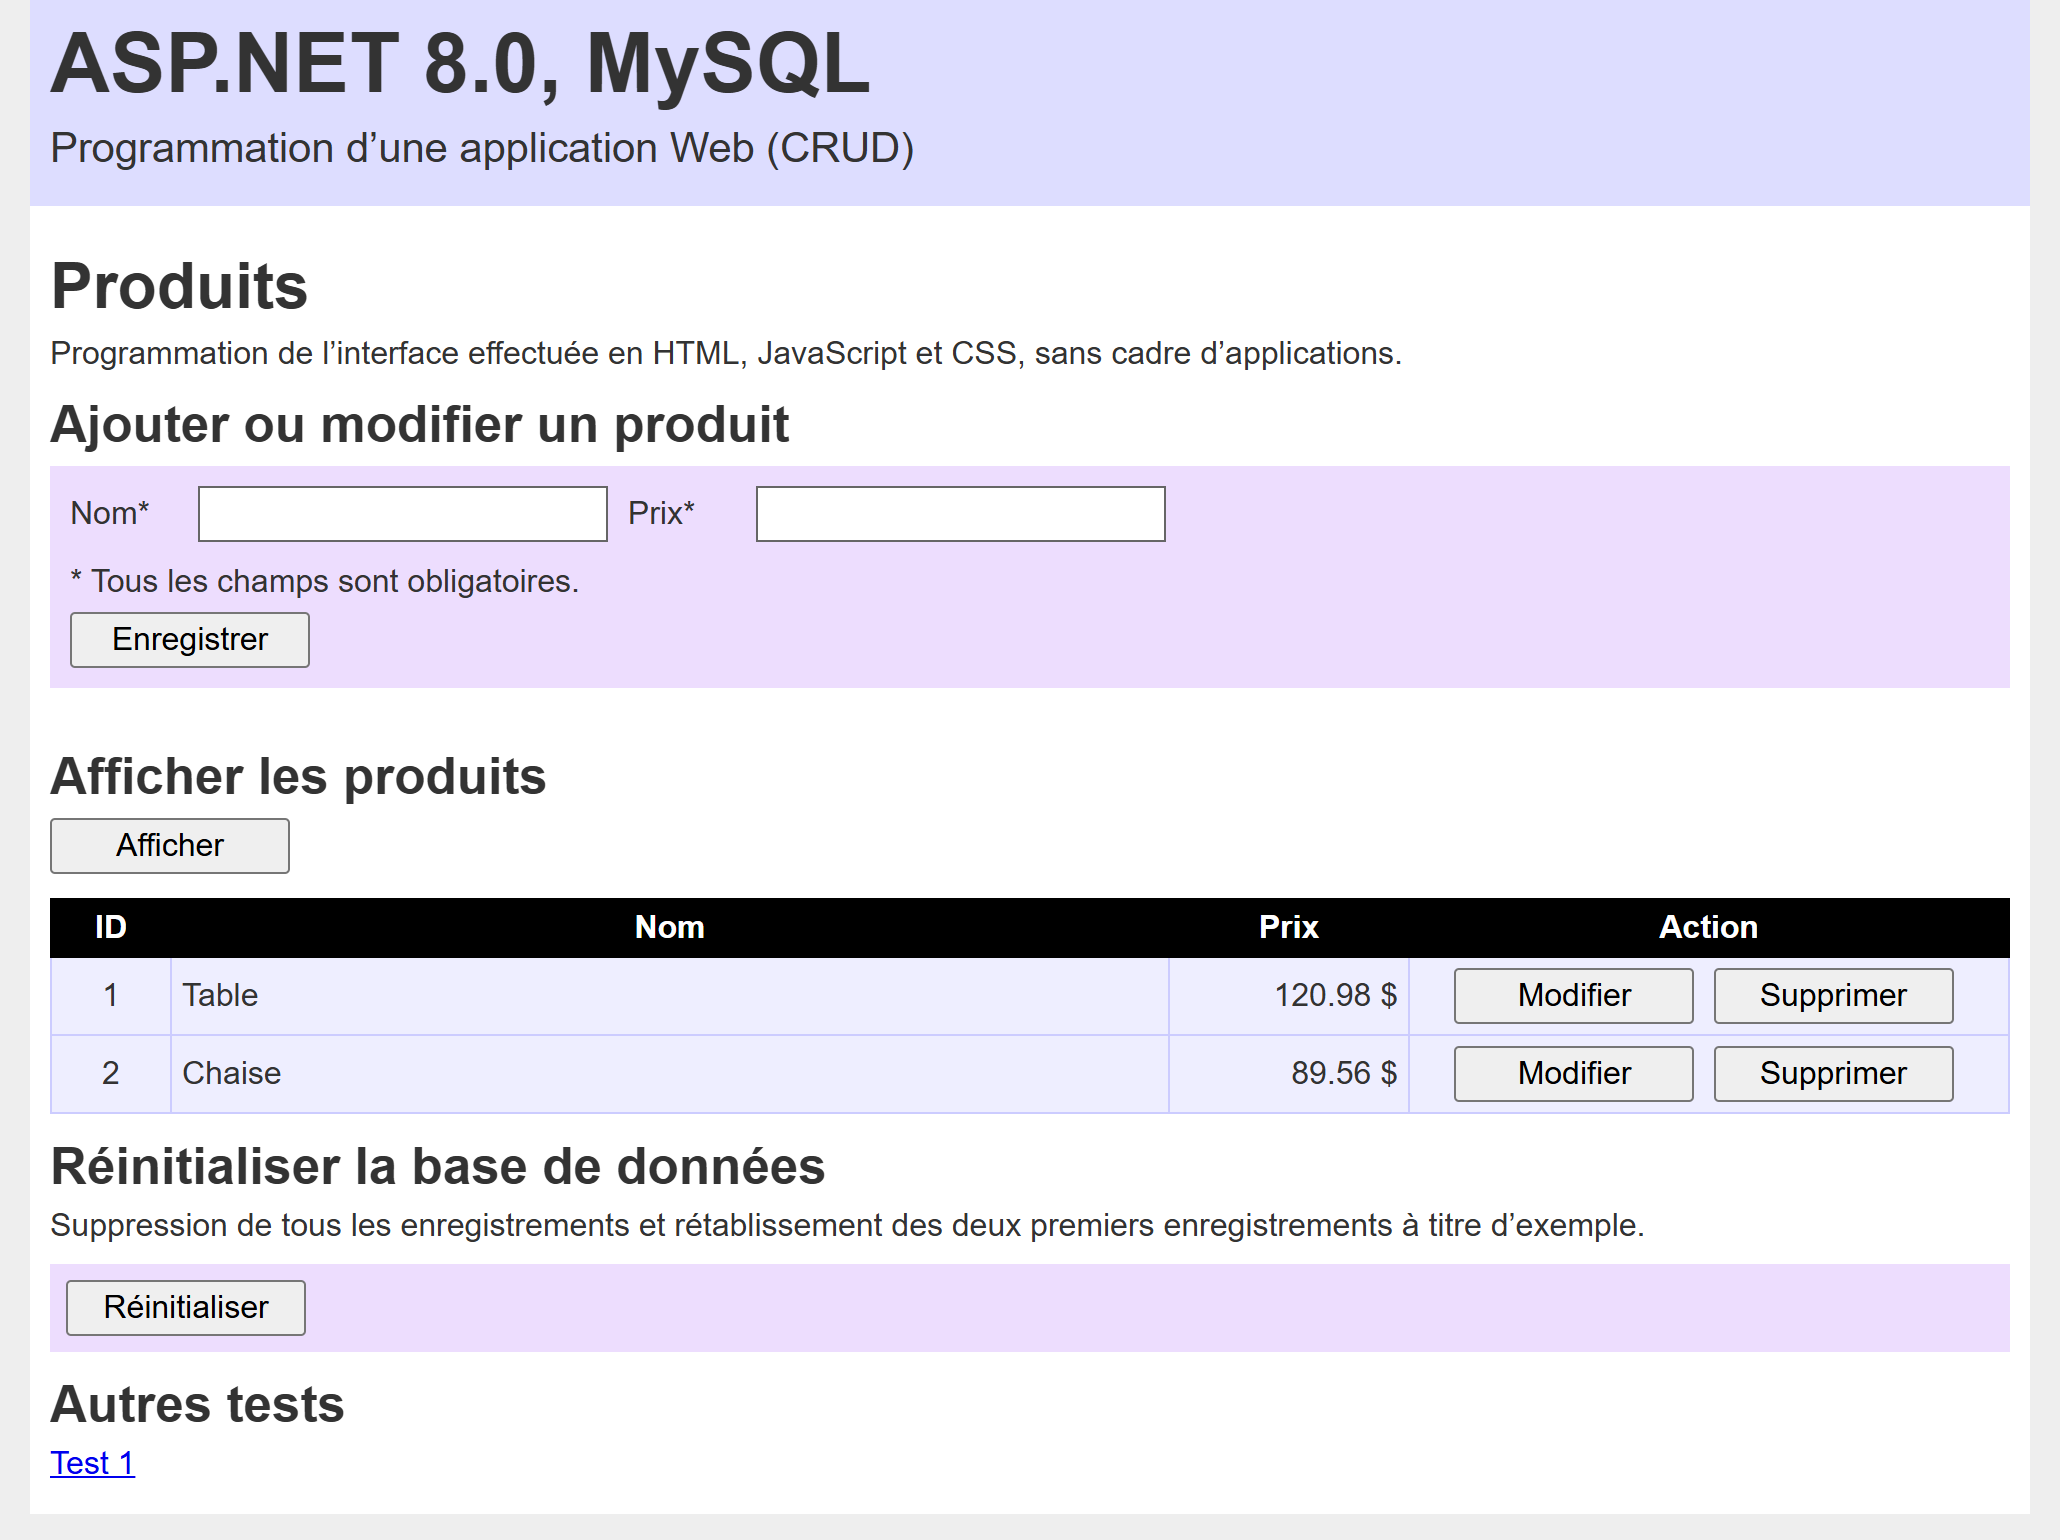
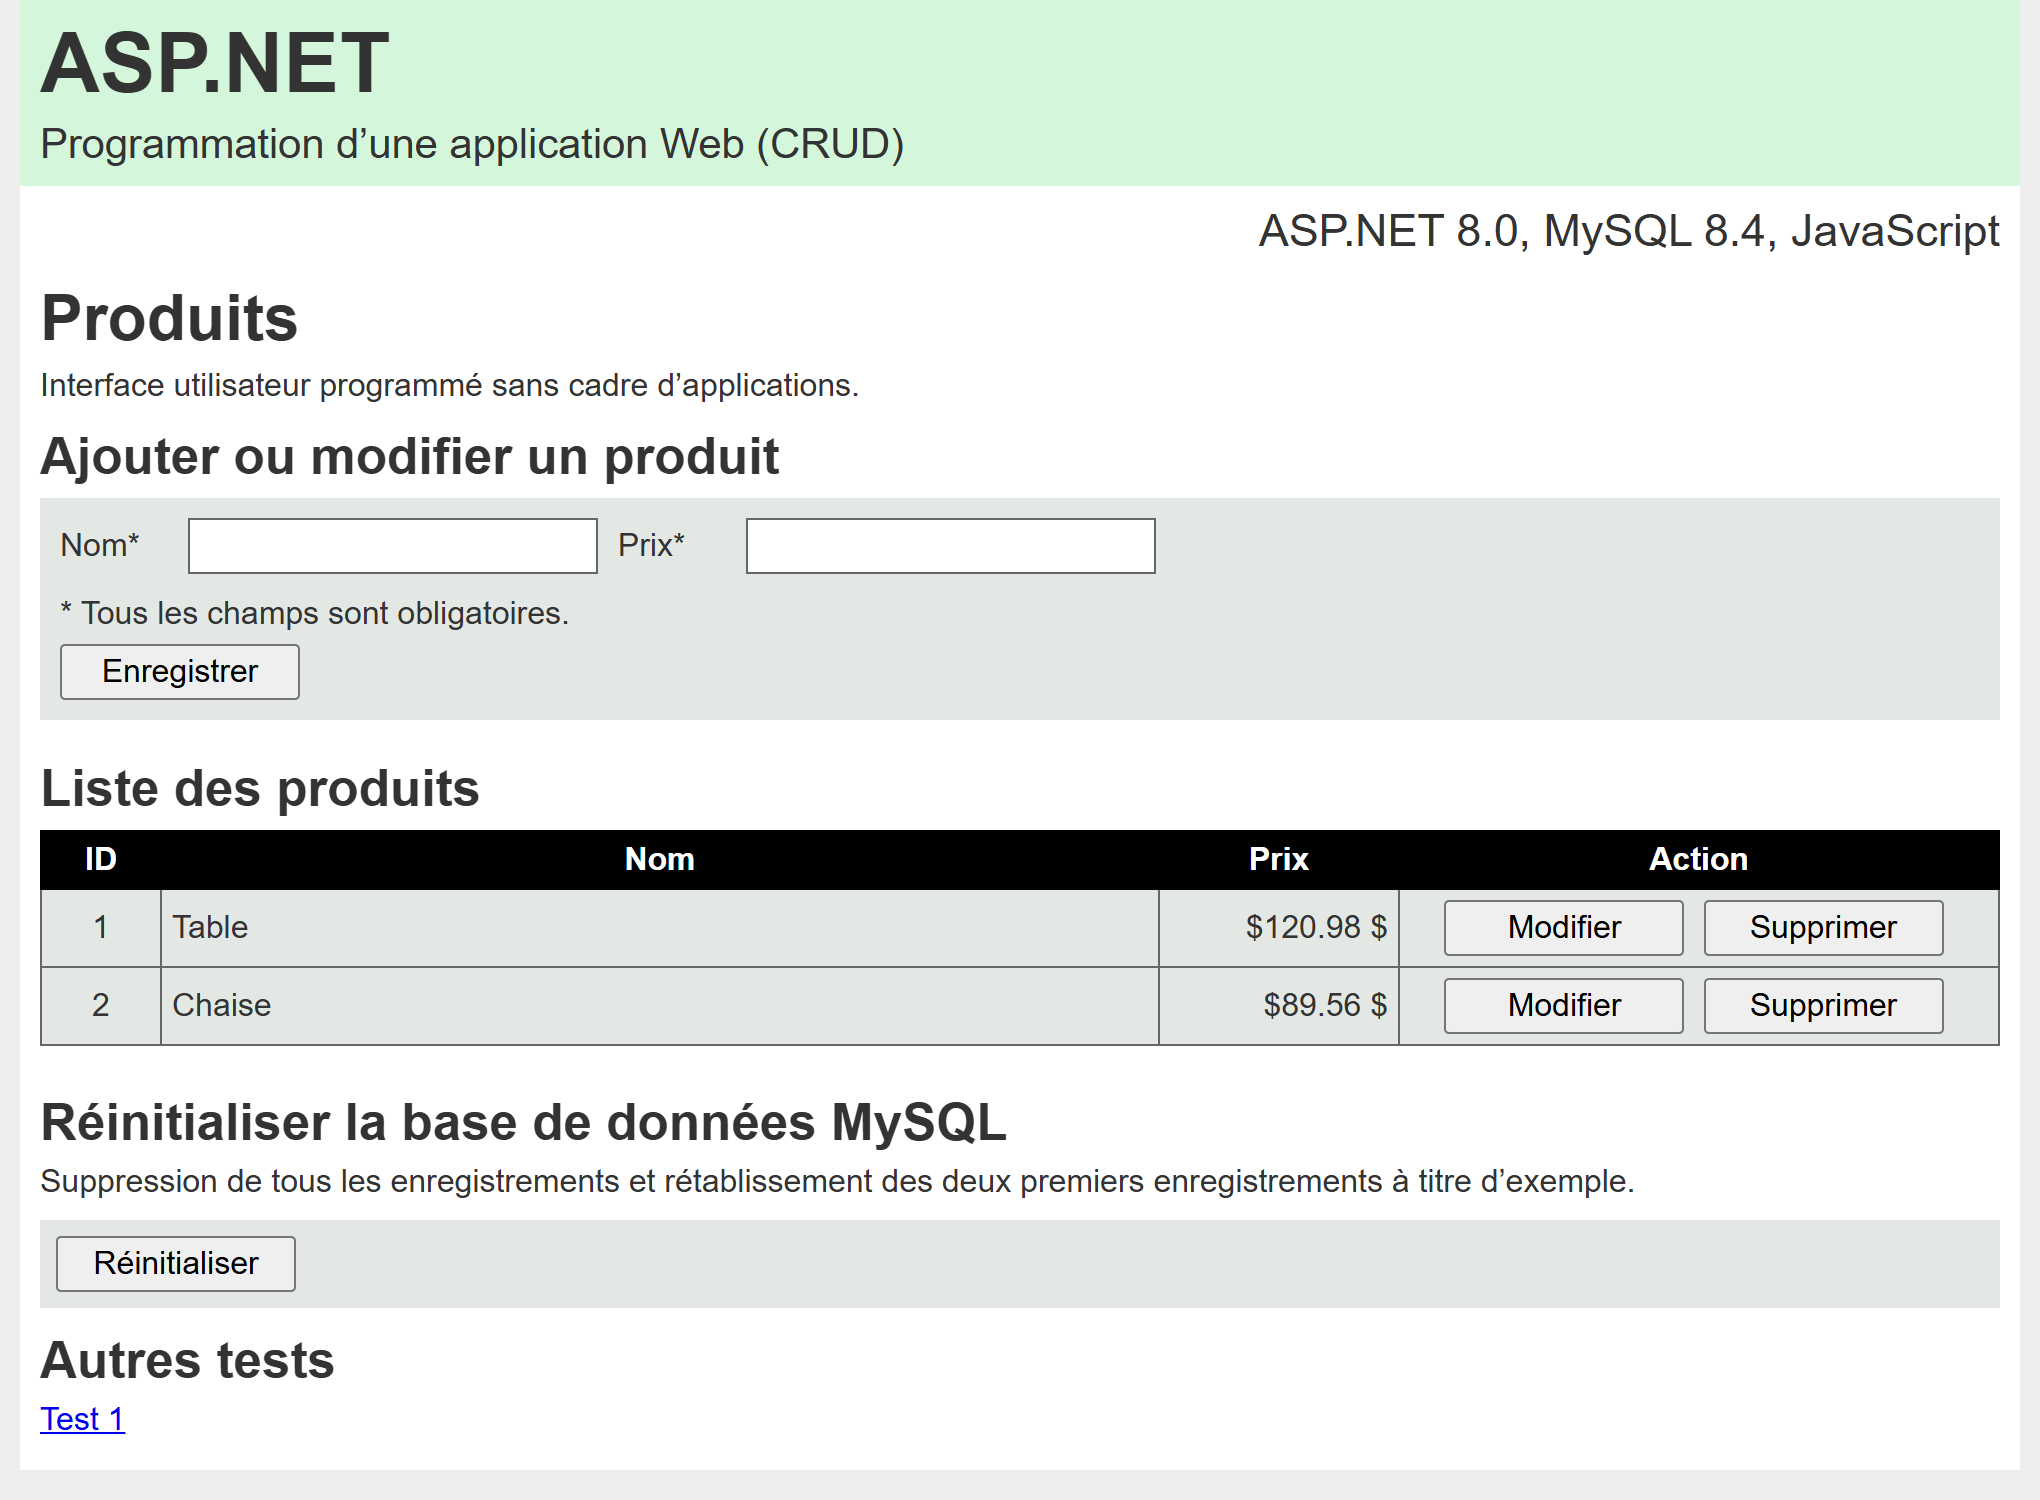
Exercice ASP.NET

diff --git a/html07/styles.css b/html07/styles.css
@@ -1,3 +1,8 @@
+:root {
+  --color01: hsl(132, 70%, 90%); /* Saturation: 70*/
+  --color02: hsl(132, 10%, 90%); /* Saturation: 10 */
+}
+
 * {
   box-sizing: border-box
 }
@@ -9,7 +14,7 @@ body {
   background-color: #eee
 }
 p {
-  margin: 0 0 6px;
+  margin: 0 0 6px 0;
 }
 input {
   padding: 4px;
@@ -38,18 +43,17 @@ header .container {
   padding: 10px;
   max-width: 1000px;
   min-width: 280px;
-  background-color: #ddf
+  background-color: var(--color01);
 }
 header .container .themetitle {
-  margin: 0 0 8px;
+  margin: 0 0 6px 0;
   padding: 0;
   font-size: 2.6rem;
   font-weight: 700;
   line-height: 2.8rem
 }
 header .container .subtitle {
-  margin: 0 0 8px;
-  padding: 0;
+  margin: 0;
   font-size: 1.3rem;
   line-height: 1.4rem
 }
@@ -69,16 +73,20 @@ main .container h3 {
   margin: 12px 0 6px 0;
   font-size: 1.6rem
 }
+main .technologies {
+  font-size: 1.4rem;
+  text-align: right;
+}
 main .reset {
   margin: 10px 0;
   padding: 8px;
-  background-color: #EDDDFE;
+  background-color: var(--color02);
 }
 
 .form45 {
-  margin-bottom: 30px;
+  margin-bottom: 20px;
   padding: 10px;
-  background-color: #EDDDFE;
+  background-color: var(--color02);
 }
 .form45 label {
   display: inline-block;
@@ -94,7 +102,7 @@ main .reset {
   min-width: 700px;
   border-collapse: collapse;
   border: none;
-  background-color: #eef
+  background-color: var(--color02);
 }
 .table45 thead {
   color: #fff;
@@ -106,7 +114,7 @@ main .reset {
 }
 .table45 td {
   padding: 5px;
-  border: 1px solid #ccf;
+  border: 1px solid #666;
 }
 .table45 td:nth-child(1) {
   width: 60px;

diff --git a/html07/index.html b/html07/index.html
@@ -8,14 +8,14 @@
   <meta name="description" content="Exercice de programmation">
   <meta name="author" content="Ghislain Coutu">
   <link rel="stylesheet" href="styles.css">
-  <title>ASP.NET, MySQL</title>
+  <title>ASP.NET</title>
 </head>
 
 <body>
   <header>
     <div class="container">
       <div>
-        <p class="themetitle">ASP.NET 8.0, MySQL</p>
+        <p class="themetitle">ASP.NET</p>
       </div>
       <div>
         <p class="subtitle">Programmation d’une application Web (CRUD)</p>
@@ -24,15 +24,16 @@
   </header>
   <main>
     <div class="container">
+      <p class="technologies">ASP.NET 8.0, MySQL 8.4, JavaScript</p>
       <h2>Produits</h2>
-      <p>Programmation de l’interface effectuée en HTML, JavaScript et CSS, sans cadre d’applications.</p>
+      <p>Interface utilisateur programmé sans cadre d’applications.</p>
       <h3>Ajouter ou modifier un produit</h3>
       <section class="form45">
         <form id="productForm">
           <label for="name45">Nom*</label>
-          <input type="text" id="name45">
+          <input type="text" id="name45" required>
           <label for="price45">Prix*</label>
-          <input type="number" id="price45" step="0.01">
+          <input type="number" id="price45" step="0.01" required>
           <p style="margin: 6px 0;">* Tous les champs sont obligatoires.</p>
           <button onclick="addProduct()">Enregistrer</button>
         </form>
@@ -57,12 +58,12 @@
             </tr>
           </tbody>
         </table>
-        <h3>Réinitialiser la base de données MySQL</h3>
-        <p>Suppression de tous les enregistrements et rétablissement des deux premiers enregistrements à titre d’exemple.</p>
-        <div class="reset"><button id="resetDatabase">Réinitialiser</button></div>
-        <h3>Autres tests</h3>
-        <p><a href="test01.html" target="_blank">Test 1</a></p>
       </div>
+      <h3>Réinitialiser la base de données MySQL</h3>
+      <p>Suppression de tous les enregistrements et rétablissement des deux premiers enregistrements à titre d’exemple.</p>
+      <div class="reset"><button id="resetDatabase">Réinitialiser</button></div>
+      <h3>Autres tests</h3>
+      <p><a href="test01.html" target="_blank">Test 1</a></p>
     </div>
   </main>
   <footer></footer>